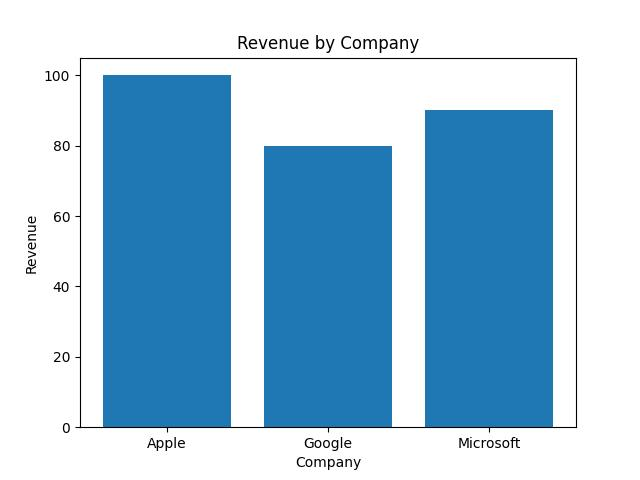
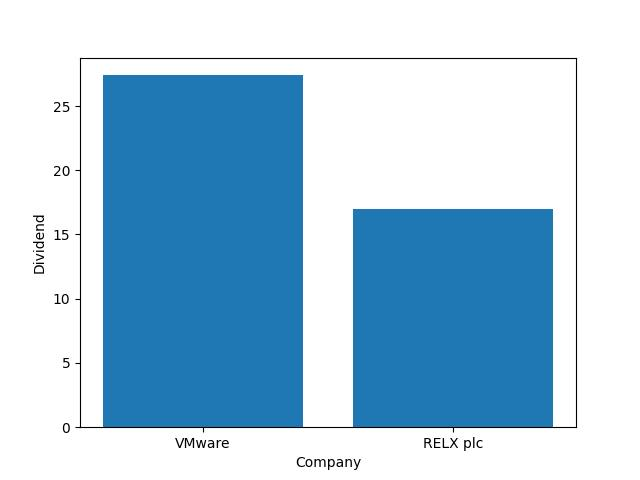
new change

diff --git a/src/services/gpt.service.js b/src/services/gpt.service.js
@@ -6,7 +6,7 @@ const openAI = new OpenAI({
 const fs = require("fs");
 const util = require("util");
 const { drawChart } = require("./chart.service");
-const tipranksService = require('../services/tiprank.service');
+const tipranksService = require("../services/tiprank.service");
 const readFileAsync = util.promisify(fs.readFile);
 
 exports.getGPTResponse = async (prompt) => {
@@ -18,31 +18,32 @@ exports.getGPTResponse = async (prompt) => {
       messages: [{ role: "user", content: prePrompt + prompt }],
       model: "gpt-3.5-turbo",
     });
-    if (completion?.choices[0]?.message?.content!=null){
+    if (completion?.choices[0]?.message?.content != null) {
       console.log(completion?.choices[0]?.message?.content);
       const query = extractSubstringBetweenHashes(
         completion?.choices[0]?.message?.content
       );
-      if (query!=null){
-        console.log("this is query",query)
+      if (query != null) {
+        console.log("this is query", query);
         const result = await runQuery(query);
-        const resultStocks=result[0];
+        const resultStocks = result[0];
         let detail;
-        if (resultStocks.length==1){
-          const stock=resultStocks[0]['ticker'].toLowerCase();
-          detail=await tipranksService.getStockDetail(stock);
-        }else{
-      const url = await getGPTChart(JSON.stringify(result[0]));
-        }    
-        return { data:resultStocks,detail:detail};
-      }else{
+        if (resultStocks.length == 1) {
+          const stock = resultStocks[0]["ticker"].toLowerCase();
+          detail = await tipranksService.getStockDetail(stock);
+        } else {
+          const filename = await getGPTChart(JSON.stringify(result[0]));
+          detail = {
+            filename: filename,
+          };
+        }
+        return { data: resultStocks, detail: detail };
+      } else {
         throw Error("null query");
       }
-    }else{
+    } else {
       throw Error("null GPT");
     }
-  
-    
   } catch (error) {
     console.log(error);
     // Consider adjusting the error handling logic for your use case
@@ -65,8 +66,8 @@ const getGPTChart = async (prompt) => {
     const pythonCode = extractBetweenBackticksPython(
       completion.choices[0].message.content
     );
-    const resutlfilePath=await saveCode(pythonCode);
-    const url=await drawChart(resutlfilePath);
+    const resutlfilePath = await saveCode(pythonCode);
+    const url = await drawChart(resutlfilePath);
     return url;
   } catch (error) {
     // Consider adjusting the error handling logic for your use case
@@ -79,17 +80,15 @@ const getGPTChart = async (prompt) => {
   }
 };
 function extractSubstringBetweenHashes(inputString) {
-  const regex = /#(.*?)#/g;
-  const matches = [];
-  let match;
+  const regex = /\(([^)]+)\)/;
+  const match = regex.exec(inputString);
 
-  while ((match = regex.exec(inputString)) !== null) {
-    matches.push(match[1]);
+  if (match && match[1]) {
+    return match[1];
+  } else {
+    return null; // Handle the case where no match is found
   }
-
-  return matches[0];
 }
-
 const extractBetweenBackticksPython = (text) => {
   const regex = /```(.*?)```/s;
   const match = text.match(regex);
@@ -113,11 +112,10 @@ const runQuery = async (query) => {
 
 const saveCode = async (code) => {
   try {
-    await fs.promises.writeFile(__dirname+"/chart.py", code);
+    await fs.promises.writeFile(__dirname + "/chart.py", code);
     return `${__dirname}/chart.py`;
     console.log("Successfully wrote to the file");
   } catch (err) {
     console.error("Error writing to the file", err);
   }
-
 };

diff --git a/src/services/chart.py b/src/services/chart.py
@@ -1,20 +1,19 @@
 
 import matplotlib.pyplot as plt
 
-# Example data
-data = [{"company_name": "Apple", "revenue": 100}, {"company_name": "Google", "revenue": 80}, {"company_name": "Microsoft", "revenue": 90}]
+data = [{"company_name":"VMware","dividend":27.399},{"company_name":"RELX plc","dividend":17}]
 
-# Extract company names and revenue from data
-company_names = [d["company_name"] for d in data]
-revenues = [d["revenue"] for d in data]
+# Extract company names and dividend amounts from data
+companies = [d['company_name'] for d in data]
+dividends = [d['dividend'] for d in data]
 
-# Create a bar chart
-plt.bar(company_names, revenues)
+# Create bar chart
+plt.bar(companies, dividends)
+plt.xlabel('Company')
+plt.ylabel('Dividend')
 
-# Add labels and title
-plt.xlabel("Company")
-plt.ylabel("Revenue")
-plt.title("Revenue by Company")
+# Save the chart as output.jpg
+plt.savefig('output.jpg')
 
-# Save the chart as an image
-plt.savefig("output.jpg")
+# Display the chart
+plt.show()
